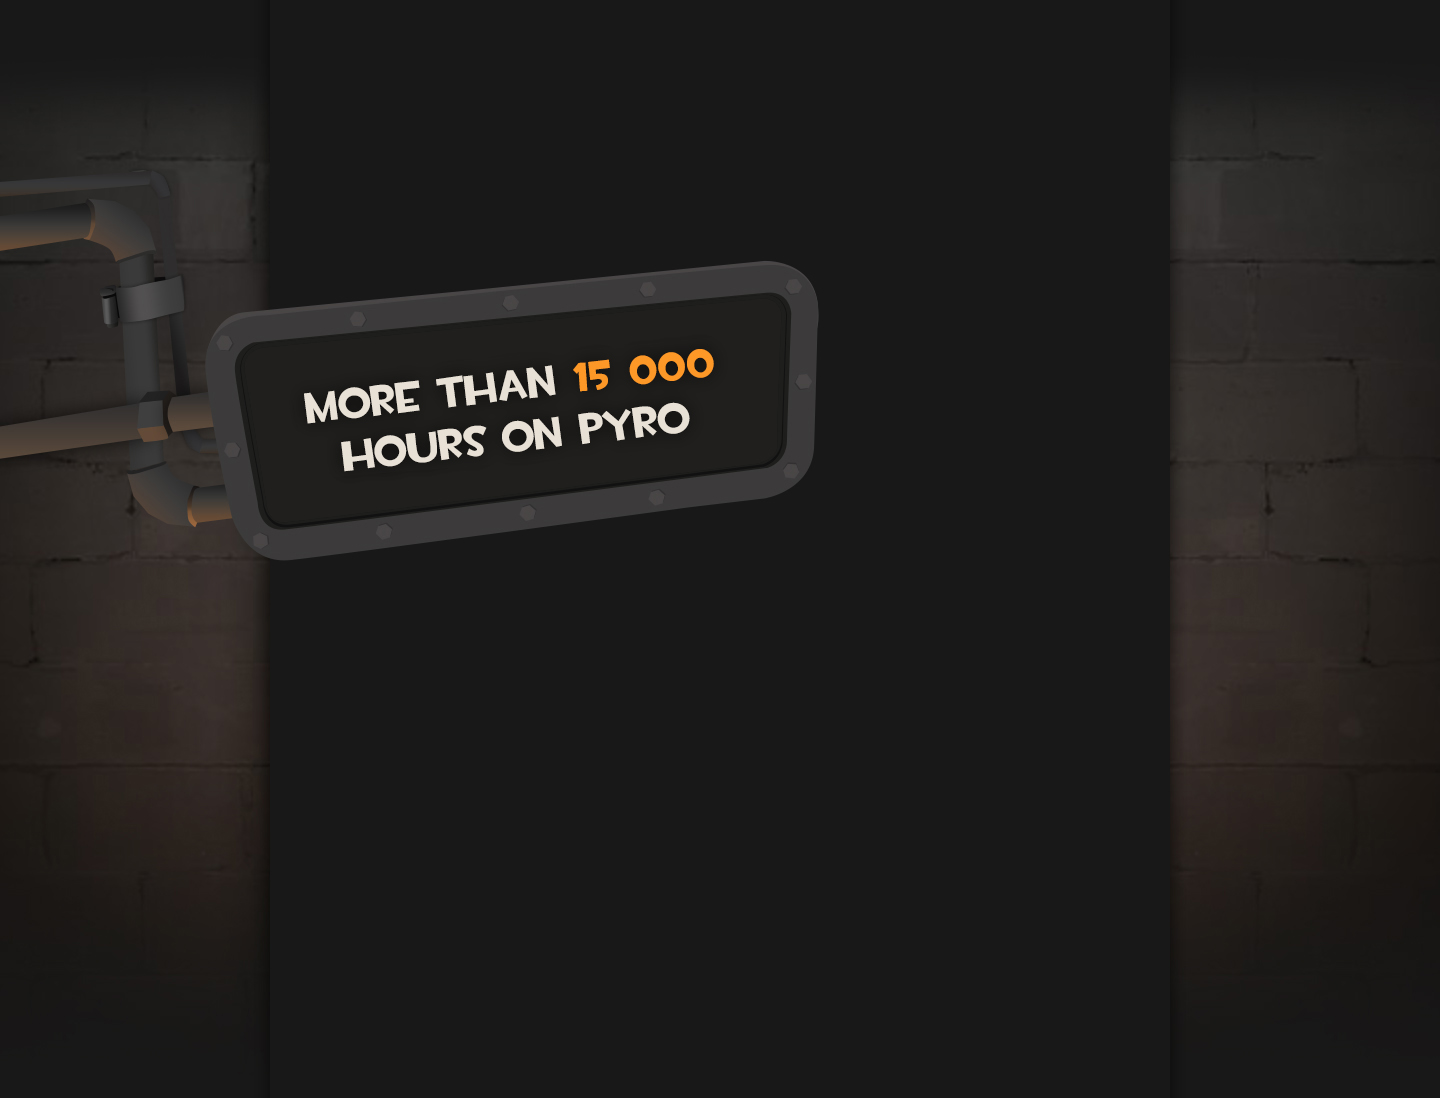
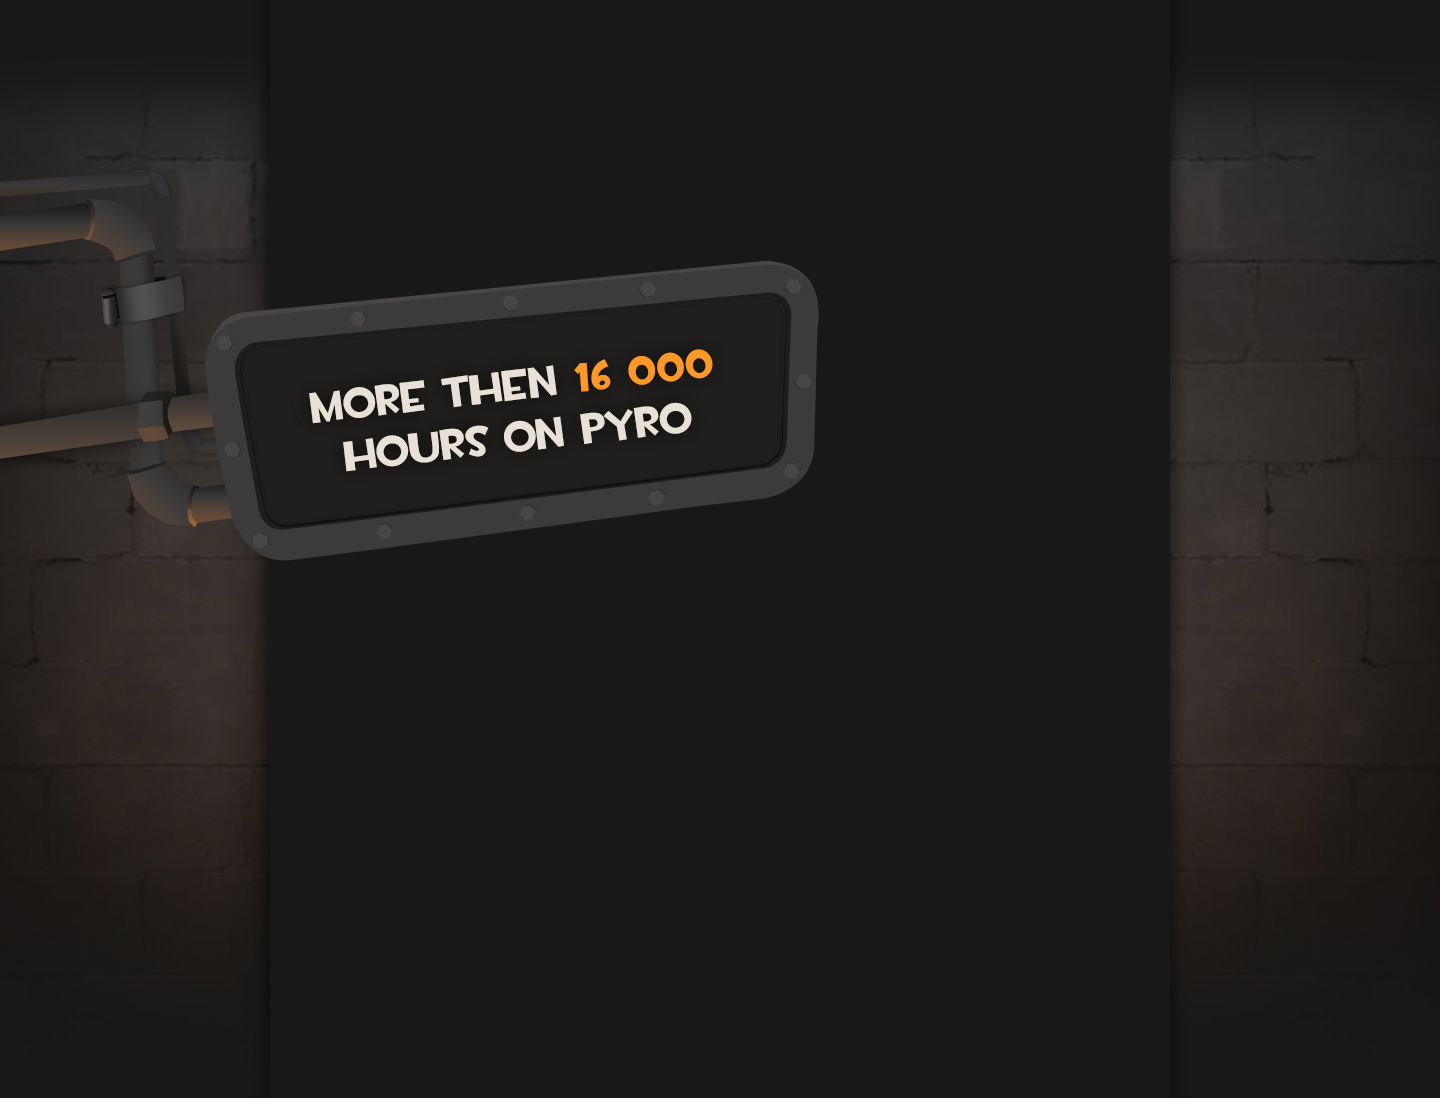
fixes

Changed region(s): [[0.2188, 0.3097, 0.5, 0.4335]]

diff --git a/index.html b/index.html
@@ -53,7 +53,7 @@ We care about the pyro and the gameplay, that is why we made a list of concerns,
         </div>
         
         <div id="greetings">
-We are top competitive pyros from the USA, Europe, Australia and Asia. Together we have combined 15,335 hours on Pyro in Team Fortress 2.
+We are top competitive pyros from the USA, Europe, Australia and Asia. Together we have combined 16,488 hours on Pyro in Team Fortress 2.
  		</div>
         <div id="pyro_wrap">
         <div id="ugc">
@@ -131,7 +131,7 @@ We are top competitive pyros from the USA, Europe, Australia and Asia. Together 
                 <div class="player">
                     <a href="http://steamcommunity.com/id/SteveDS/" target="_blank">
                         <div class="player_img"><img src="http://cdn.akamai.steamstatic.com/steamcommunity/public/images/avatars/1c/1c20139c1e33e68728c9316653ab380391f8eb31_full.jpg"></div>
-                        <div class="player_name">Stevepander</div>
+                        <div class="player_name">Steve!</div>
                     </a>    
                 </div>
                 
@@ -174,6 +174,13 @@ We are top competitive pyros from the USA, Europe, Australia and Asia. Together 
                      <a href="http://steamcommunity.com/id/pfhyuri/" target="_blank">
                     <div class="player_img"><img src="http://cdn.akamai.steamstatic.com/steamcommunity/public/images/avatars/6b/6bcc44b2b4490a71010254910eb89be8dde13753_full.jpg"></div>
                     <div class="player_name">Hyuri</div>  
+                    </a>     
+                </div>
+                
+                <div class="player">
+                     <a href="http://steamcommunity.com/id/crapapple/" target="_blank">
+                    <div class="player_img"><img src="http://cdn.akamai.steamstatic.com/steamcommunity/public/images/avatars/fd/fda295af838c56249a4ab3c75754473359517b73_full.jpg"></div>
+                    <div class="player_name">crap-apple</div>  
                     </a>     
                 </div>
                 
@@ -266,7 +273,7 @@ We are top competitive pyros from the USA, Europe, Australia and Asia. Together 
         <div id="insite">We hope our perspective on Pyro as its top players will provide you with insight on the issues of Pyro. We are looking forward to hearing from you, Valve! 
 		</div>
         
-        <div id="footer">Design: <a href="http://yuriy.eu">Yuriy</a>. Code: <a href="https://twitter.com/makpage">Max</a> and Yuriy. Demos: <a href="https://steamcommunity.com/id/WhistlingPyro">HA Johnny</a>. SFM art work: <a href="https://steamcommunity.com/id/Ronald_D_D">Ronald_D_D</a>
+        <div id="footer">Design: <a href="http://yuriy.eu" target="_blank">Yuriy</a>. Code: <a href="https://twitter.com/makpage" target="_blank">Max</a> and Yuriy. Demos: <a href="https://steamcommunity.com/id/WhistlingPyro" target="_blank">HA Johnny</a> and <a href="http://steamcommunity.com/profiles/76561198060727271/" target="_blank">TSON</a>. SFM art work: <a href="https://steamcommunity.com/id/Ronald_D_D" target="_blank">Ronald_D_D</a>
 		</div>
         </div>
     </div>
